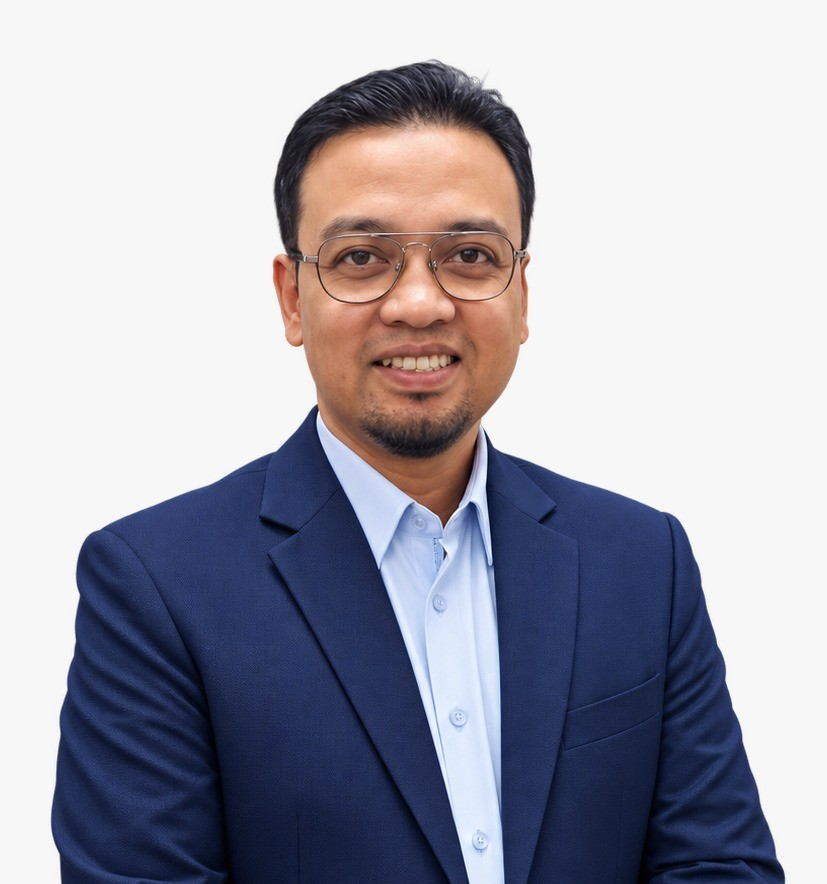
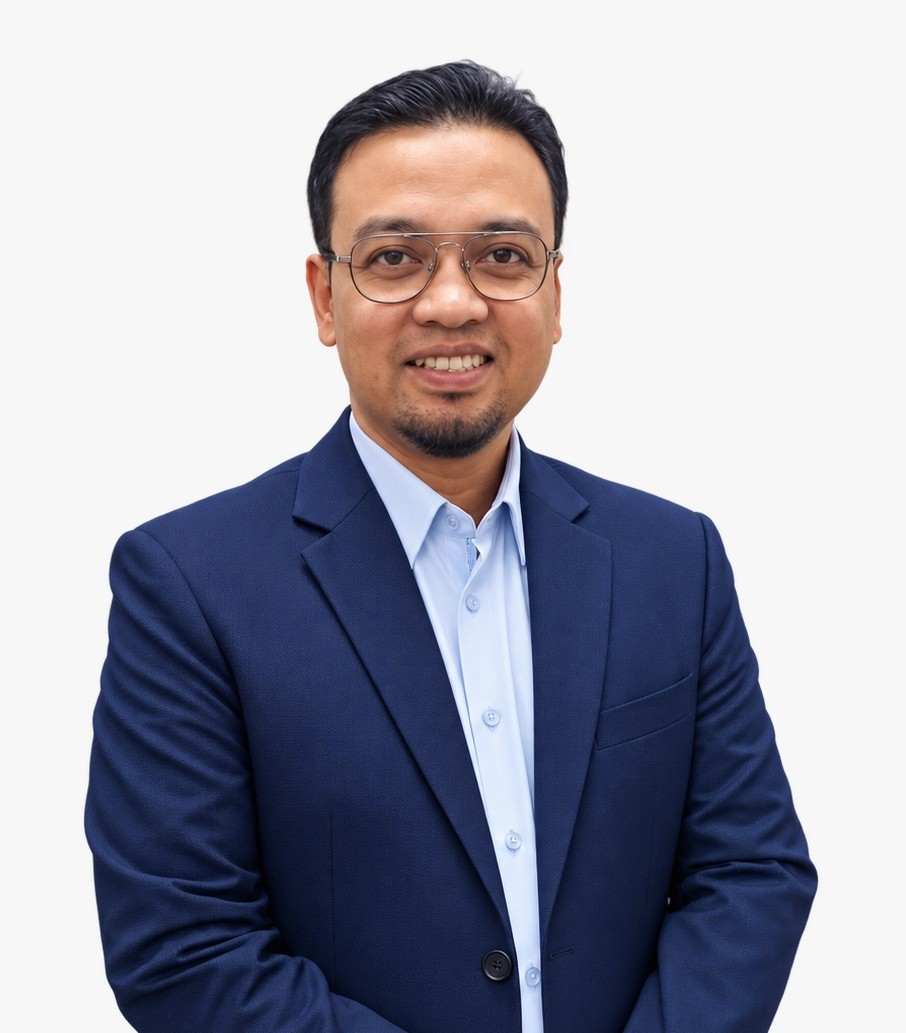
Update Wan Izhan Nawawi's keynote speaker photo

diff --git a/index.html b/index.html
@@ -221,7 +221,7 @@
         <div class="speaker-grid">
           <article class="speaker-card reveal">
             <div class="speaker-card__portrait">
-              <img src="assets/speakers/wanizhan.jpeg" alt="Portrait of Assoc. Prof. Dr. Wan Izhan Nawawi bin Wan Ismail" loading="lazy" width="827" height="884">
+              <img src="assets/speakers/wanizhan.jpeg" alt="Portrait of Assoc. Prof. Dr. Wan Izhan Nawawi bin Wan Ismail" loading="lazy" width="906" height="1033">
             </div>
             <div class="speaker-card__copy">
               <span class="speaker-card__index">01</span>
